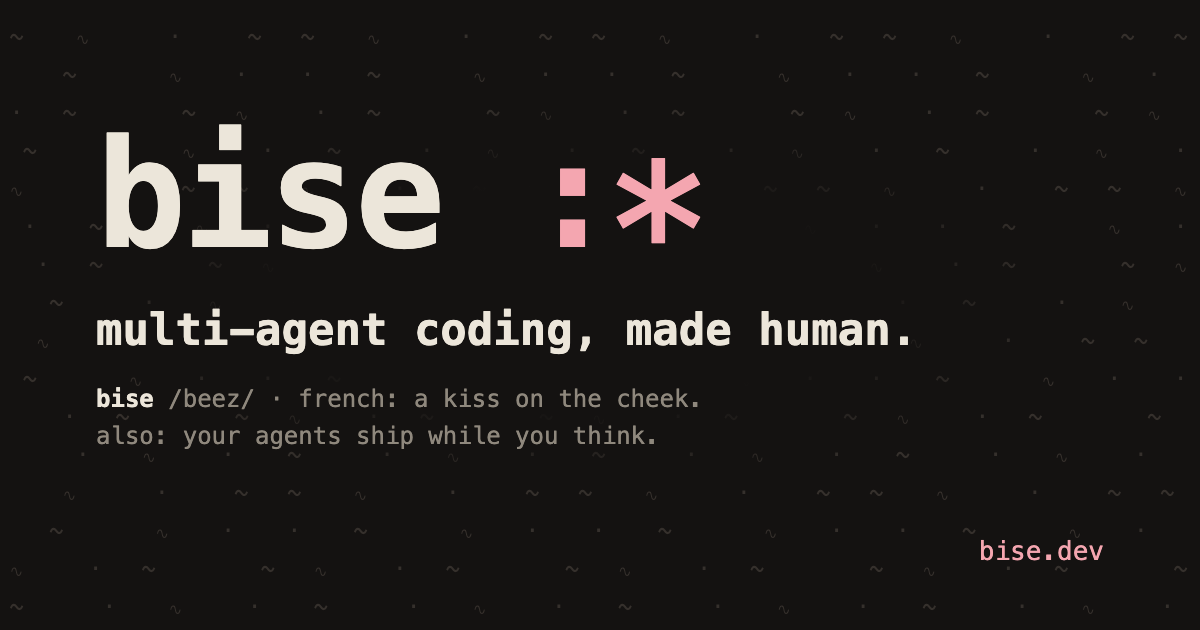
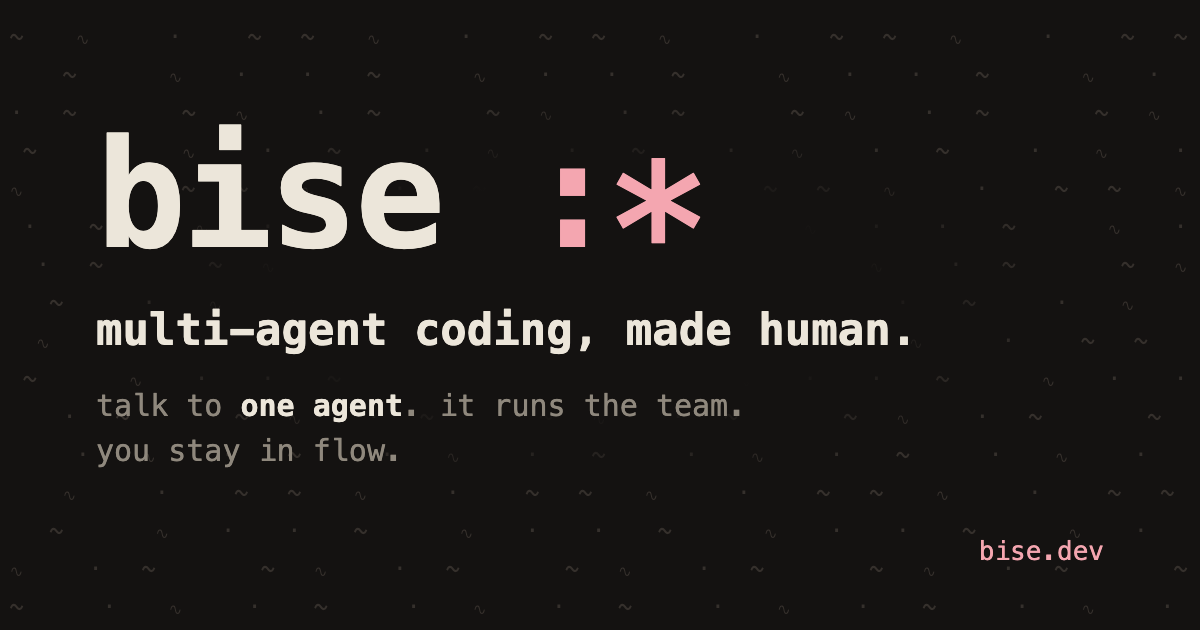
brand/site: share image b ('talk to one agent. it runs the team. you stay in flow.')

Changed region(s): [[0.0617, 0.6032, 0.6167, 0.754]]

diff --git a/projects/switchboard/docs/brand/site/content/og-variants.html b/projects/switchboard/docs/brand/site/content/og-variants.html
@@ -12,14 +12,14 @@ figcaption{margin-top:10px}figcaption b{color:var(--acc)}.dim{color:var(--dim)}
 <p class="dim">what people see when bise.dev is shared (1200×630). hover a block to annotate it, as usual. the small row at the bottom is the size most feeds show.</p>
 <div class="grid">
 <figure data-a="og-a"><img src="og/og-a.png"><figcaption><b>a · the gloss</b> <span class="dim">(live now) the definition, then what it is. no wind.</span></figcaption></figure>
-<figure data-a="og-b"><img src="og/og-b.png"><figcaption><b>b · the promise</b> <span class="dim">"talk to one agent. it runs the team. you stay in flow." the clearest for a stranger.</span></figcaption></figure>
+<figure data-a="og-b"><img src="og/og-b.png"><figcaption><b>b · the promise</b> <span class="dim">"talk to one agent. it runs the team. you stay in flow." the clearest for a stranger. (live now: the user's pick)</span></figcaption></figure>
 <figure data-a="og-c"><img src="og/og-c.png"><figcaption><b>c · show it</b> <span class="dim">a slice of the demo: OK LAST ONE, the dog with a hat. says "product" at a glance. my pick.</span></figcaption></figure>
 <figure data-a="og-d"><img src="og/og-d.png"><figcaption><b>d · the line</b> <span class="dim">"kiss your backlog goodbye." as the headline. the cheekiest; bise is the small print.</span></figcaption></figure>
 </div>
 <h2 style="margin-top:48px">a, shorter</h2>
 <div class="grid">
 <figure data-a="og-a1"><img src="og/og-a1.png"><figcaption><b>a1</b> <span class="dim">"also: agents ship. you stay in flow." </span></figcaption></figure>
-<figure data-a="og-a2"><img src="og/og-a2.png"><figcaption><b>a2</b> <span class="dim">"also: your agents ship while you think." (live now: the user's pick)</span></figcaption></figure>
+<figure data-a="og-a2"><img src="og/og-a2.png"><figcaption><b>a2</b> <span class="dim">"also: your agents ship while you think."</span></figcaption></figure>
 <figure data-a="og-a3"><img src="og/og-a3.png"><figcaption><b>a3</b> <span class="dim">"also: a terminal full of agents." (says what it is, no promise)</span></figcaption></figure>
 </div>
 <div class="small" data-a="small"><img src="og/og-a.png"><img src="og/og-b.png"><img src="og/og-c.png"><img src="og/og-d.png"></div>

diff --git a/projects/switchboard/docs/brand/readme/src/og.html b/projects/switchboard/docs/brand/readme/src/og.html
@@ -9,7 +9,7 @@ pre{position:absolute;inset:0;margin:0;padding:18px 0 0 10px;color:#35302c;font-
 .g b{color:#ece6da;font-weight:600}
 .url{position:absolute;right:96px;bottom:64px;font-size:26px;color:#f4a6b0}
 .bg{position:absolute;left:70px;top:96px;width:1000px;height:400px;background:radial-gradient(closest-side,#141211 55%,transparent)}
-</style></head><body><pre>~    ∿      ·     ~   ~    ∿      ·     ~   ~    ∿      ·     ~   ~    ∿      ·     ~   ~    ∿      ·     ~   
+.t2{font-size:30px;color:#8f887d;margin-top:28px;line-height:1.5}.t2 b{color:#ece6da;font-weight:600}</style></head><body><pre>~    ∿      ·     ~   ~    ∿      ·     ~   ~    ∿      ·     ~   ~    ∿      ·     ~   ~    ∿      ·     ~   
     ~       ∿    ·    ·    ~       ∿    ·    ·    ~       ∿    ·    ·    ~       ∿    ·    ·    ~       ∿    ·  
 ·   ~        ~   ∿     ·   ~        ~   ∿     ·   ~        ~   ∿     ·   ~        ~   ∿     ·   ~        ~   
  ~      ·    ∿     ·    ~      ·    ∿     ·    ~      ·    ∿     ·    ~      ·    ∿     ·    ~      ·    ∿     · 
@@ -26,4 +26,4 @@ pre{position:absolute;inset:0;margin:0;padding:18px 0 0 10px;color:#35302c;font-
 ∿     ·   ~        ~   ∿     ·   ~        ~   ∿     ·   ~        ~   ∿     ·   ~        ~   ∿     ·   ~        ~   
 ~      ·    ∿     ·    ~      ·    ∿     ·    ~      ·    ∿     ·    ~      ·    ∿     ·    ~      ·    ∿     · </pre><div class="bg"></div><div class="card"><div class="big">bise <span>:*</span></div>
 <div class="t1">multi-agent coding, made human.</div>
-<div class="g"><b>bise</b> /beez/ · french: a kiss on the cheek.<br>also: your agents ship while you think.</div></div><div class="url">bise.dev</div></body></html>
+<div class="t2">talk to <b>one agent</b>. it runs the team.<br>you stay in flow.</div></div><div class="url">bise.dev</div></body></html>

diff --git a/projects/switchboard/docs/brand/site/index.html b/projects/switchboard/docs/brand/site/index.html
@@ -17,7 +17,7 @@
 <meta property="og:image" content="https://bise.dev/og.png">
 <meta property="og:image:width" content="1200">
 <meta property="og:image:height" content="630">
-<meta property="og:image:alt" content="bise :* · multi-agent coding, made human.">
+<meta property="og:image:alt" content="bise :* · multi-agent coding, made human. talk to one agent. it runs the team. you stay in flow.">
 <meta name="twitter:card" content="summary_large_image">
 <meta name="twitter:title" content="bise :* · multi-agent coding, made human.">
 <meta name="twitter:description" content="bise is an open-source terminal app for multi-agent coding. you talk to one agent, it runs a whole team of coding agents for you, and you stay in flow.">

diff --git a/projects/switchboard/docs/brand/site/book/index.html b/projects/switchboard/docs/brand/site/book/index.html
@@ -17,7 +17,7 @@
 <meta property="og:image" content="https://bise.dev/og.png">
 <meta property="og:image:width" content="1200">
 <meta property="og:image:height" content="630">
-<meta property="og:image:alt" content="bise :* · multi-agent coding, made human.">
+<meta property="og:image:alt" content="bise :* · multi-agent coding, made human. talk to one agent. it runs the team. you stay in flow.">
 <meta name="twitter:card" content="summary_large_image">
 <meta name="twitter:title" content="bise :* · the brand book">
 <meta name="twitter:description" content="the brand book of bise: the voice, the colors, the symbols and every screen of a terminal app for multi-agent coding.">
